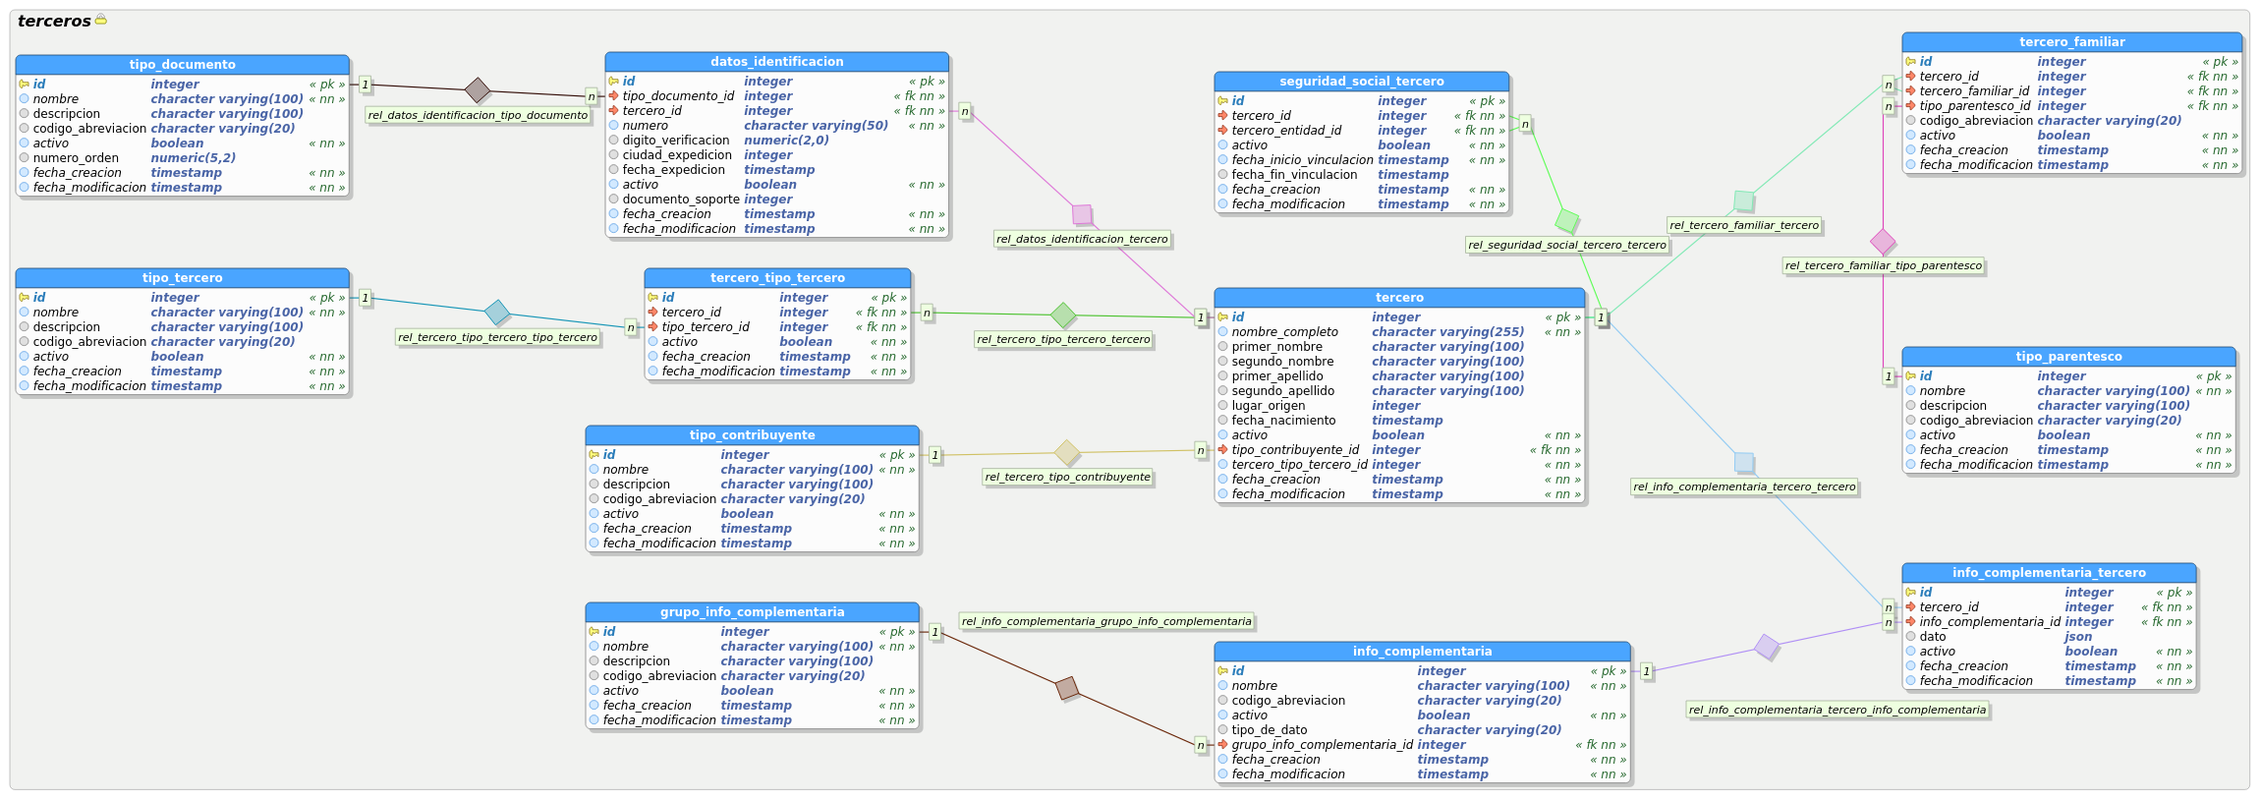
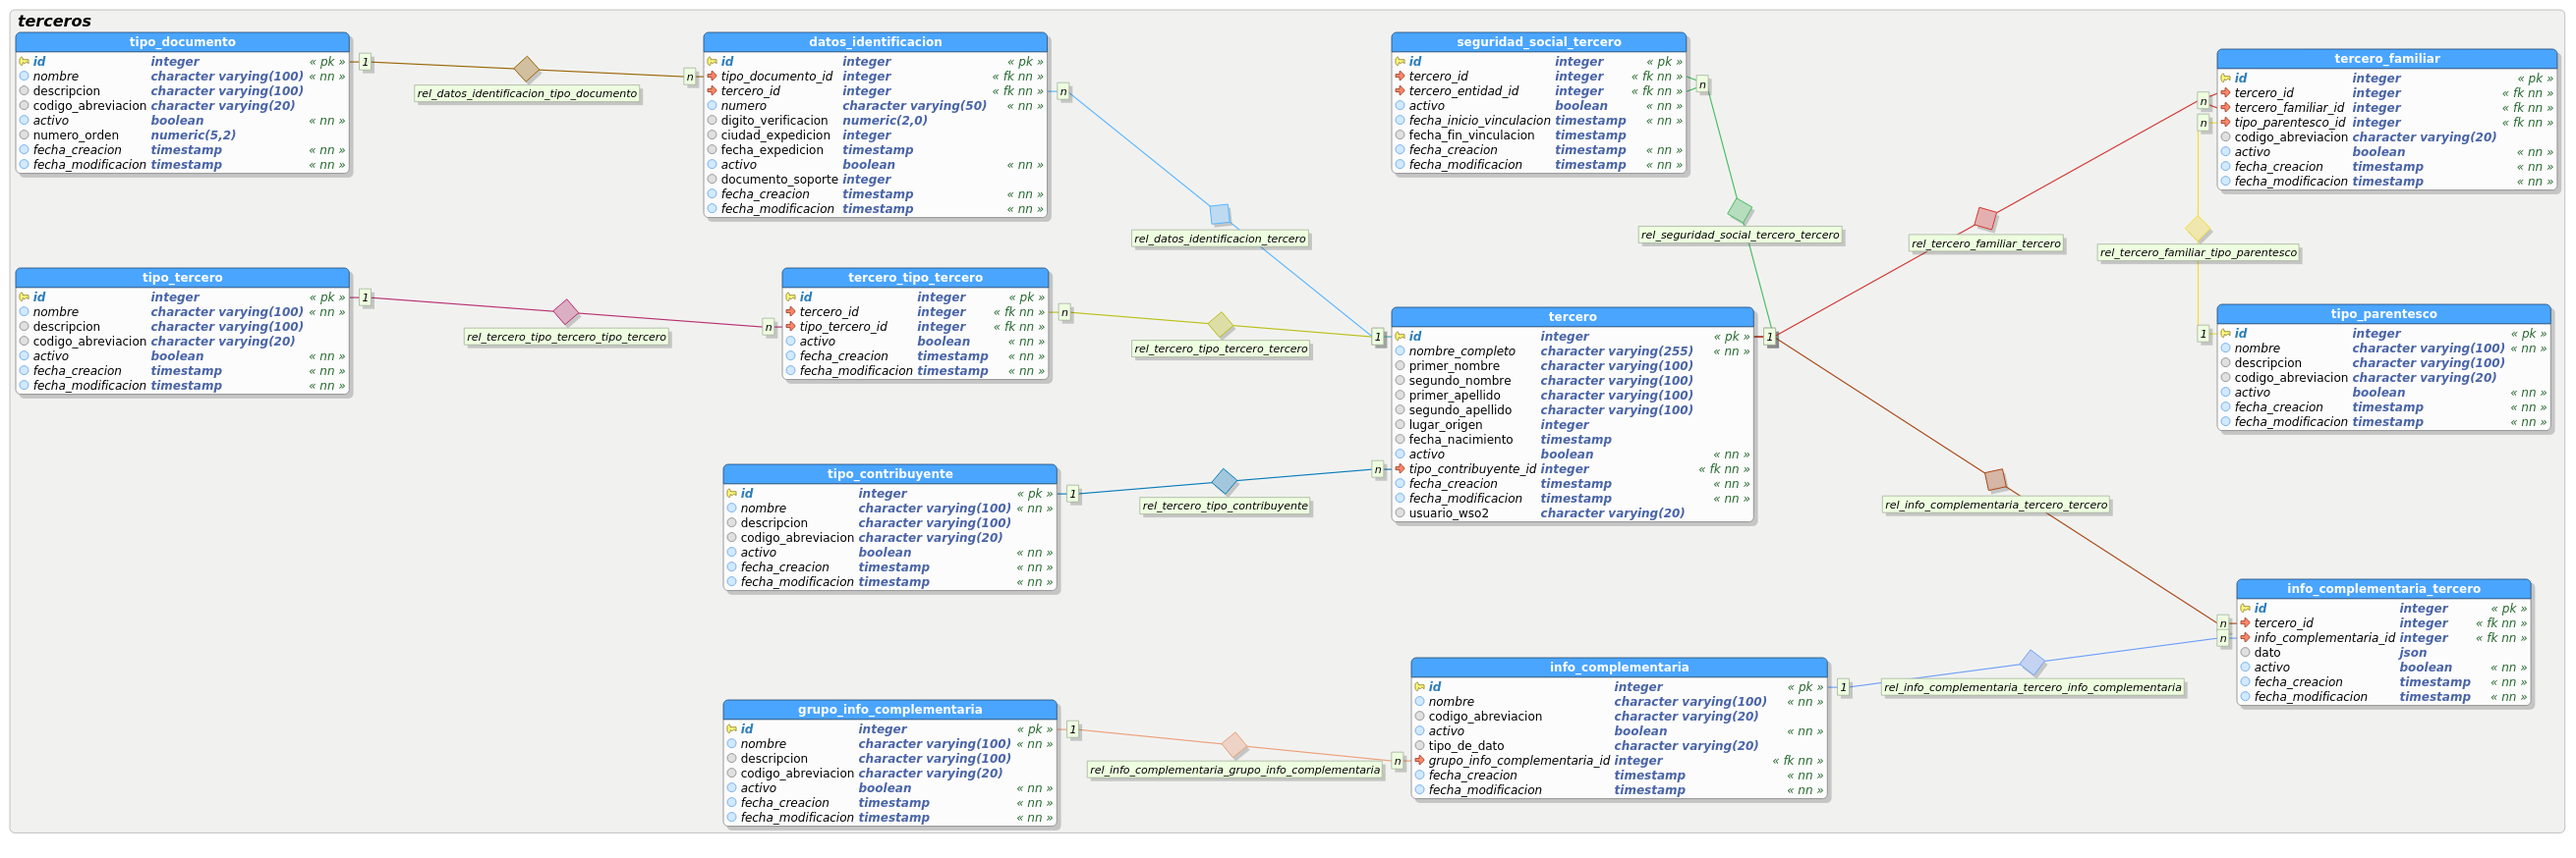
:baby: Se agrega usuario de WSO2 a peticion de Jhon y equipo de academica en tabla tercero, se actualiza png del esquema #16

Changed region(s): [[0.0, 0.0, 1.0, 0.7055], [0.2468, 0.6748, 0.9874, 1.0]]

diff --git a/database/migrations/20191119_144700_alter_table_terceros_add_usuario_wso2.go b/database/migrations/20191119_144700_alter_table_terceros_add_usuario_wso2.go
@@ -1,0 +1,31 @@
+package main
+
+import (
+	"github.com/astaxie/beego/migration"
+)
+
+// DO NOT MODIFY
+type AlterTableTercerosAddUsuarioWso2_20191119_144700 struct {
+	migration.Migration
+}
+
+// DO NOT MODIFY
+func init() {
+	m := &AlterTableTercerosAddUsuarioWso2_20191119_144700{}
+	m.Created = "20191119_144700"
+
+	migration.Register("AlterTableTercerosAddUsuarioWso2_20191119_144700", m)
+}
+
+// Run the migrations
+func (m *AlterTableTercerosAddUsuarioWso2_20191119_144700) Up() {
+	// use m.SQL("CREATE TABLE ...") to make schema update
+	m.SQL("ALTER TABLE terceros.tercero ADD usuario_wso2 character varying(20);")
+	m.SQL("COMMENT ON COLUMN terceros.tercero.usuario_wso2 IS 'Campo opcional para guardar el usuario de WSO2 de una persona_natural.';")
+}
+
+// Reverse the migrations
+func (m *AlterTableTercerosAddUsuarioWso2_20191119_144700) Down() {
+	// use m.SQL("DROP TABLE ...") to reverse schema update
+	m.SQL("ALTER TABLE terceros.tercero DROP COLUMN usuario_wso2;")
+}

diff --git a/models/tercero.go b/models/tercero.go
@@ -23,6 +23,7 @@ type Tercero struct {
 	TipoContribuyenteId *TipoContribuyente `orm:"column(tipo_contribuyente_id);rel(fk)"`
 	FechaCreacion       time.Time          `orm:"column(fecha_creacion);type(timestamp without time zone)"`
 	FechaModificacion   time.Time          `orm:"column(fecha_modificacion);type(timestamp without time zone)"`
+	UsuarioWSO2			string			   `orm:"column(usuario_wso2);null"`
 }
 
 func (t *Tercero) TableName() string {
